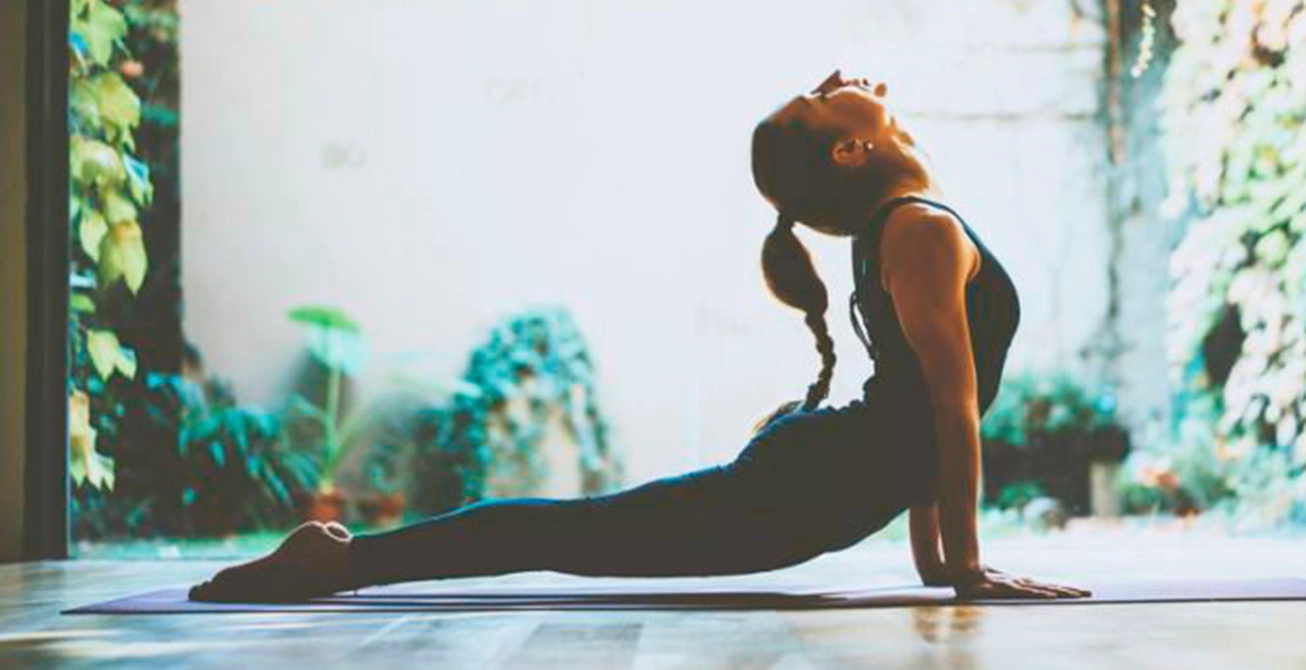
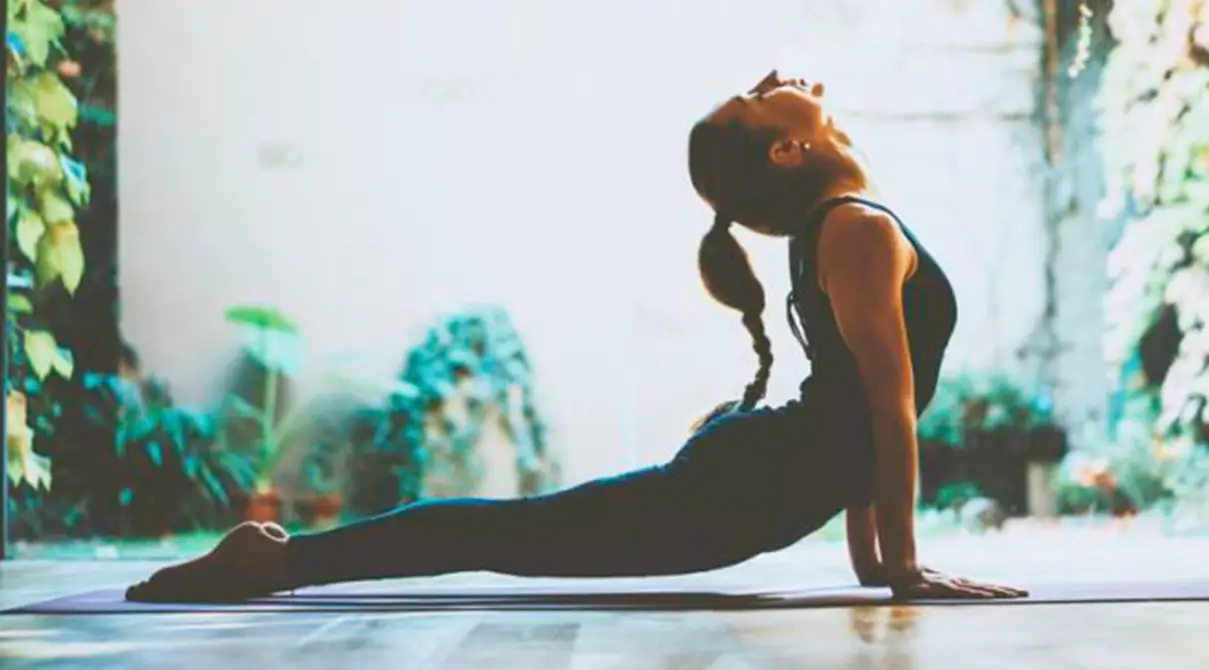
carrousel

diff --git a/Secciones/contacto.html b/Secciones/contacto.html
@@ -5,10 +5,13 @@
     <meta charset="UTF-8">
     <meta http-equiv="X-UA-Compatible" content="IE=edge">
     <meta name="viewport" content="width=device-width, initial-scale=1.0">
-    <meta name="keywords" content="yoga, meditacion, relajacion, cuerpo, mente, contactanos, llamanos, mail, redes, mapa, ubicación">
-    <meta name="description" content="Contactate con Just Breath Yoga por ducdas o consultas que tengas, ya sea por herramientas de yoga o clases, estamos a disposición.">
+    <meta name="keywords"
+        content="yoga, meditacion, relajacion, cuerpo, mente, contactanos, llamanos, mail, redes, mapa, ubicación">
+    <meta name="description"
+        content="Contactate con Just Breath Yoga por ducdas o consultas que tengas, ya sea por herramientas de yoga o clases, estamos a disposición.">
     <title>Contactanos | Just Breathe Yoga</title>
-    <link href="https://cdn.jsdelivr.net/npm/bootstrap@5.3.0-alpha3/dist/css/bootstrap.min.css" rel="stylesheet" integrity="sha384-KK94CHFLLe+nY2dmCWGMq91rCGa5gtU4mk92HdvYe+M/SXH301p5ILy+dN9+nJOZ" crossorigin="anonymous">
+    <link href="https://cdn.jsdelivr.net/npm/bootstrap@5.3.0-alpha3/dist/css/bootstrap.min.css" rel="stylesheet"
+        integrity="sha384-KK94CHFLLe+nY2dmCWGMq91rCGa5gtU4mk92HdvYe+M/SXH301p5ILy+dN9+nJOZ" crossorigin="anonymous">
     <link rel="stylesheet" href="../Css/style.css">
     <link rel="shortcut icon" href="../recursos/icono.png" type="image/x-icon">
 </head>
@@ -64,29 +67,30 @@
 
         <h2>Si preferis, dejanos tu consulta</h2>
 
-        <form id="formulario" action="#" method="get">
+        <form class="formulario" action="#" method="get">
             <div class="mb-3 container">
                 <label for="exampleFormControlInput1" class="form-label">Nombre</label>
                 <input type="text" class="form-control" id="exampleFormControlInput1" placeholder="Nombre">
-              </div>
+            </div>
             <div class="mb-3 container">
                 <label for="exampleFormControlInput1" class="form-label">Email</label>
                 <input type="email" class="form-control" id="exampleFormControlInput1" placeholder="ejemplo@mail.com">
-              </div>
-              <div class="mb-3 container">
+            </div>
+            <div class="mb-3 container">
                 <label for="exampleFormControlTextarea1" class="form-label">Mensaje</label>
                 <textarea class="form-control" id="exampleFormControlTextarea1" rows="3"></textarea>
             </div>
-                <div class="mb-3 form-check container">
-                    <input type="checkbox" class="form-check-input" id="exampleCheck1">
-                    <label class="form-check-label" for="exampleCheck1">Acepto recibir comunicaciones de Just Breath Yoga</label>
-                 
-                        <button class="btn btn-primary" type="submit">Enviar</button>
-                </div>
-                
+            <div class="mb-3 form-check container">
+                <input type="checkbox" class="form-check-input" id="exampleCheck1">
+                <label class="form-check-label" for="exampleCheck1">Acepto recibir comunicaciones de Just Breath
+                    Yoga</label>
 
-        
-             
+                <button class="btn btn-primary" type="submit">Enviar</button>
+            </div>
+
+
+
+
 
         </form>
 
@@ -104,9 +108,11 @@
     <footer class="footer">
         <a href="#"><img src="../recursos/icons8-instagram-48.png" alt="NuestroInstagram"></a>
         <a href="#"><img src="../recursos/icons8-youtube-cuadrado-48.png" alt="NuestroCanalYoutube"></a>
-        <a href="#"><img src="../recursos/icons8-google-maps-48.png" alt="NuestroEstudio"></a>
+        <a href="https://goo.gl/maps/g2sQCN5MJ3W9gKCB6" target="_blank"><img src="../recursos/icons8-google-maps-48.png" alt="NuestroEstudio"></a>
     </footer>
-    <script src="https://cdn.jsdelivr.net/npm/bootstrap@5.3.0-alpha3/dist/js/bootstrap.bundle.min.js" integrity="sha384-ENjdO4Dr2bkBIFxQpeoTz1HIcje39Wm4jDKdf19U8gI4ddQ3GYNS7NTKfAdVQSZe" crossorigin="anonymous"></script>
+    <script src="https://cdn.jsdelivr.net/npm/bootstrap@5.3.0-alpha3/dist/js/bootstrap.bundle.min.js"
+        integrity="sha384-ENjdO4Dr2bkBIFxQpeoTz1HIcje39Wm4jDKdf19U8gI4ddQ3GYNS7NTKfAdVQSZe"
+        crossorigin="anonymous"></script>
 </body>
 
 </html>

diff --git a/index.html b/index.html
@@ -45,7 +45,48 @@
     </header>
 
     <main id="main-index">
-        <img src="./recursos/yoga-aire-libre.webp" alt="Yoga">
+
+
+        <div id="carouselExampleCaptions" class="carousel slide">
+            <div class="carousel-indicators">
+                <button type="button" data-bs-target="#carouselExampleCaptions" data-bs-slide-to="0" class="active"
+                    aria-current="true" aria-label="Slide 1"></button>
+                <button type="button" data-bs-target="#carouselExampleCaptions" data-bs-slide-to="1"
+                    aria-label="Slide 2"></button>
+                <button type="button" data-bs-target="#carouselExampleCaptions" data-bs-slide-to="2"
+                    aria-label="Slide 3"></button>
+            </div>
+            <div class="carousel-inner">
+                <div class="carousel-item active">
+                    <img src="./recursos/yoga-aire-libre.webp" class="d-block w-100" alt="Clases Yoga">
+                    <div class="carousel-caption d-none d-md-block">
+                        <h5>Manten tu rutina de práctica</h5>
+                    </div>
+                </div>
+                <div class="carousel-item">
+                    <img src="./recursos/Yogaexterior.webp" class="d-block w-100" alt="Meditacion">
+                    <div class="carousel-caption d-none d-md-block">
+                        <h5>Respira para entrar en meditación</h5>
+                    </div>
+                </div>
+                <div class="carousel-item">
+                    <img src="./recursos/equilibrio.webp" class="d-block w-100" alt="Relajacion">
+                    <div class="carousel-caption d-none d-md-block">
+                        <h5>Encuentra el equilibrio de tu mente y tu cuerpo</h5>
+                    </div>
+                </div>
+            </div>
+            <button class="carousel-control-prev" type="button" data-bs-target="#carouselExampleCaptions"
+                data-bs-slide="prev">
+                <span class="carousel-control-prev-icon" aria-hidden="true"></span>
+                <span class="visually-hidden">Anterior</span>
+            </button>
+            <button class="carousel-control-next" type="button" data-bs-target="#carouselExampleCaptions"
+                data-bs-slide="next">
+                <span class="carousel-control-next-icon" aria-hidden="true"></span>
+                <span class="visually-hidden">Siguiente</span>
+            </button>
+        </div>
 
         <h2 class=" frase-1 animate__animated animate__pulse ">"Inhala el futuro, exhala el pasado"</h2>
 
@@ -94,7 +135,8 @@
     <footer class="footer">
         <a href="#"><img src="./recursos/icons8-instagram-48.png" alt="NuestroInstagram"></a>
         <a href="#"><img src="./recursos/icons8-youtube-cuadrado-48.png" alt="NuestroCanalYoutube"></a>
-        <a href="#"><img src="./recursos/icons8-google-maps-48.png" alt="NuestroEstudio"></a>
+        <a href="https://goo.gl/maps/g2sQCN5MJ3W9gKCB6" target="_blank"><img src="./recursos/icons8-google-maps-48.png"
+                alt="NuestroEstudio"></a>
     </footer>
     <script src="https://cdn.jsdelivr.net/npm/bootstrap@5.3.0-alpha3/dist/js/bootstrap.bundle.min.js"
         integrity="sha384-ENjdO4Dr2bkBIFxQpeoTz1HIcje39Wm4jDKdf19U8gI4ddQ3GYNS7NTKfAdVQSZe"

diff --git a/Css/style.css b/Css/style.css
@@ -57,8 +57,11 @@ h2 {
   background-color: #D8D8D8; }
 
 /* MAIN INDEX */
-#main-index img {
-  width: 100vw; }
+#carouselExampleCaptions {
+  max-height: 70vh; }
+  #carouselExampleCaptions .carousel-item {
+    height: 70vh;
+    overflow: hidden; }
 
 .bannerschicosindex {
   display: flex;
@@ -160,6 +163,10 @@ h2 {
     padding: 10px;
     font-size: 25px; }
 
+.formulario {
+  width: 50vw;
+  margin-left: 25vw; }
+
 .btn-primary {
   background-color: #408E91;
   border: none;
@@ -170,17 +177,14 @@ h2 {
     transition: .3;
     box-shadow: 2px 2px 2px #88898c; }
 
-.formulario {
-  padding: 20px;
-  border-color: #408E91; }
-
 #exampleCheck1 {
   margin-left: 15px; }
 
 .mapa {
-  padding: 20px;
   justify-content: center;
-  width: 90vw; }
+  width: 80vw;
+  margin-left: 10vw;
+  margin-bottom: 10px; }
 
 /* FOOTER SECTION */
 .footer {
@@ -215,6 +219,11 @@ h2 {
     grid-template-rows: repeat(3, 400px); } }
 
 @media (max-width: 768px) {
+  #carouselExampleCaptions {
+    max-height: 30vh; }
+    #carouselExampleCaptions .carousel-item {
+      height: 30vh;
+      overflow: hidden; }
   .clases img {
     width: 90vw; }
   .clases p {
@@ -242,6 +251,12 @@ h2 {
       display: none; }
     .contacto h3 {
       font-size: 20px; }
+  .formulario {
+    width: 90vw;
+    margin-left: 5vw; }
+  .mapa {
+    width: 90vw;
+    margin-left: 5vw; }
   .herramientas-meditacion iframe {
     width: 400px;
     height: 240px; } }

diff --git a/Secciones/respiracion_meditacion.html b/Secciones/respiracion_meditacion.html
@@ -108,7 +108,7 @@
     <footer class="footer">
         <a href="#"><img src="../recursos/icons8-instagram-48.png" alt="NuestroInstagram"></a>
         <a href="#"><img src="../recursos/icons8-youtube-cuadrado-48.png" alt="NuestroCanalYoutube"></a>
-        <a href="#"><img src="../recursos/icons8-google-maps-48.png" alt="NuestroEstudio"></a>
+        <a href="https://goo.gl/maps/g2sQCN5MJ3W9gKCB6" target="_blank"><img src="../recursos/icons8-google-maps-48.png" alt="NuestroEstudio"></a>
     </footer>
     <script src="https://cdn.jsdelivr.net/npm/bootstrap@5.3.0-alpha3/dist/js/bootstrap.bundle.min.js"
         integrity="sha384-ENjdO4Dr2bkBIFxQpeoTz1HIcje39Wm4jDKdf19U8gI4ddQ3GYNS7NTKfAdVQSZe"

diff --git a/Secciones/clases.html b/Secciones/clases.html
@@ -96,7 +96,7 @@
     <footer class="footer">
         <a href="#"><img src="../recursos/icons8-instagram-48.png" alt="NuestroInstagram"></a>
         <a href="#"><img src="../recursos/icons8-youtube-cuadrado-48.png" alt="NuestroCanalYoutube"></a>
-        <a href="#"><img src="../recursos/icons8-google-maps-48.png" alt="NuestroEstudio"></a>
+        <a href="https://goo.gl/maps/g2sQCN5MJ3W9gKCB6" target="_blank"><img src="../recursos/icons8-google-maps-48.png" alt="NuestroEstudio"></a>
     </footer>
     <script src="https://cdn.jsdelivr.net/npm/bootstrap@5.3.0-alpha3/dist/js/bootstrap.bundle.min.js"
         integrity="sha384-ENjdO4Dr2bkBIFxQpeoTz1HIcje39Wm4jDKdf19U8gI4ddQ3GYNS7NTKfAdVQSZe"

diff --git a/Secciones/tips_saludables.html b/Secciones/tips_saludables.html
@@ -76,7 +76,7 @@
     <footer class="footer">
         <a href="#"><img src="../recursos/icons8-instagram-48.png" alt="NuestroInstagram"></a>
         <a href="#"><img src="../recursos/icons8-youtube-cuadrado-48.png" alt="NuestroCanalYoutube"></a>
-        <a href="#"><img src="../recursos/icons8-google-maps-48.png" alt="NuestroEstudio"></a>
+        <a href="https://goo.gl/maps/g2sQCN5MJ3W9gKCB6" target="_blank"><img src="../recursos/icons8-google-maps-48.png" alt="NuestroEstudio"></a>
     </footer>
     <script src="https://cdn.jsdelivr.net/npm/bootstrap@5.3.0-alpha3/dist/js/bootstrap.bundle.min.js"
         integrity="sha384-ENjdO4Dr2bkBIFxQpeoTz1HIcje39Wm4jDKdf19U8gI4ddQ3GYNS7NTKfAdVQSZe"

diff --git a/scss/recursos/_media.scss b/scss/recursos/_media.scss
@@ -1,4 +1,3 @@
-
 @media (max-width: 1200px) {
     .header {
         flex-direction: column;
@@ -36,6 +35,17 @@
 }
 
 @media (max-width: 768px) {
+
+    #carouselExampleCaptions {
+        max-height: 30vh;
+    
+     .carousel-item{
+      height: 30vh;
+        overflow:hidden;
+     
+        }
+    }
+
     .clases {
         img {
             width: 90vw;
@@ -86,6 +96,16 @@
 
     }
 
+    .formulario {
+        width: 90vw;
+        margin-left: 5vw;
+    }
+
+    .mapa {
+
+        width: 90vw;
+        margin-left: 5vw;
+    }
 
     .herramientas-meditacion iframe {
         width: 400px;

diff --git a/scss/secciones/_contacto.scss b/scss/secciones/_contacto.scss
@@ -27,6 +27,15 @@
    
 }
 
+.formulario{
+    width: 50vw;
+    margin-left: 25vw;
+    // display: flex;
+    // flex-direction: column;
+    // justify-content: center;
+  
+}
+
 .btn-primary {
     background-color: $verde;
     border: none;
@@ -40,17 +49,16 @@
     }  
 }
 
-.formulario {
-    padding: 20px;
-    border-color: $verde;
-}
+
 
 #exampleCheck1{
     margin-left: 15px;
 }
 
 .mapa {
-    padding: 20px;
+    
     justify-content: center;
-    width: 90vw;
+    width: 80vw;
+    margin-left: 10vw;
+    margin-bottom: 10px;
 }

diff --git a/scss/main.scss b/scss/main.scss
@@ -36,8 +36,14 @@ h2 {
 }
 
 /* MAIN INDEX */
-#main-index img {
-    width: 100vw;
+#carouselExampleCaptions {
+    max-height: 70vh;
+
+ .carousel-item{
+  height: 70vh;
+    overflow:hidden;
+ 
+    }
 }
 
 
